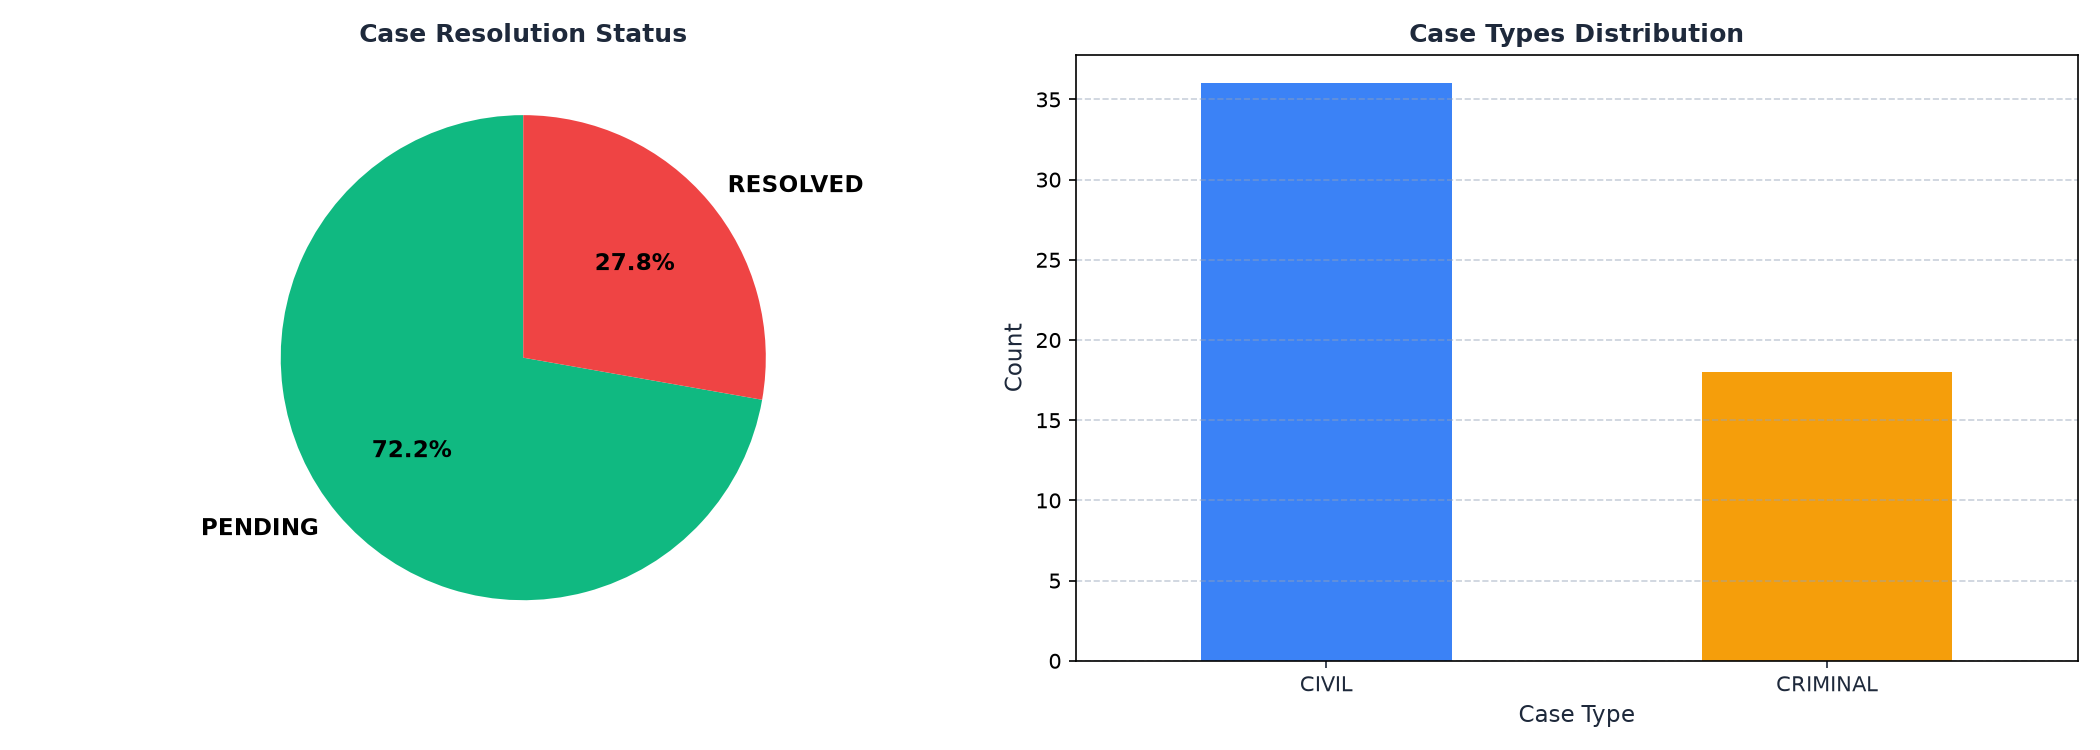
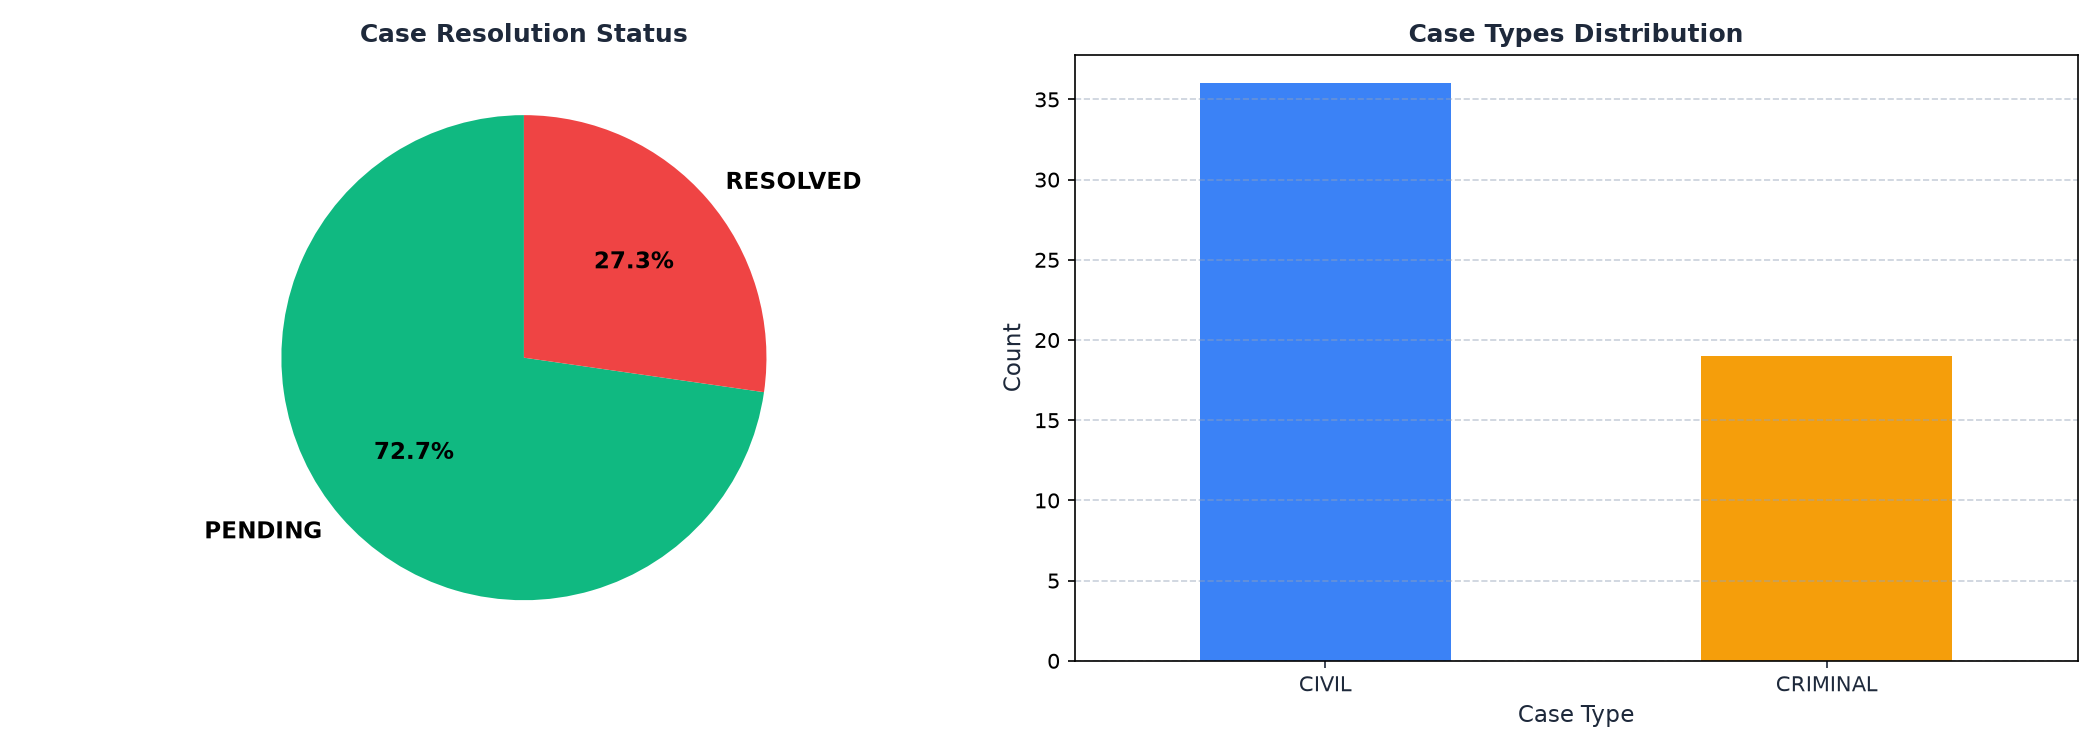
🚀 Auto-update dashboard charts and README

diff --git a/README.md b/README.md
@@ -13,13 +13,13 @@ The architecture operates entirely on open-source automation, ensuring that fiel
 
     Automated Visualization Deployment: The script draws a pristine statistical frequency chart via matplotlib and automatically overwrites the web asset, updating the public dashboard in real time.
 ### 1. District Distribution
-![District Chart](district_chart_v2.png?v=1784488806)
+![District Chart](district_chart_v2.png?v=1784490288)
 
 ### 2. Case Analytics
-![Case Analytics](case_analytics.png?v=1784488806)
+![Case Analytics](case_analytics.png?v=1784490288)
 
 ### 3. Top 10 Union Distribution
-![Union Distribution](union_distribution_chart.png?v=1784488806)
+![Union Distribution](union_distribution_chart.png?v=1784490288)
 🔍 Foundational Statistical Findings
 
 Below is the live data visualization tracking our regional distributions across the target sample size, automatically compiled by our Python and GitHub Actions cloud pipeline: